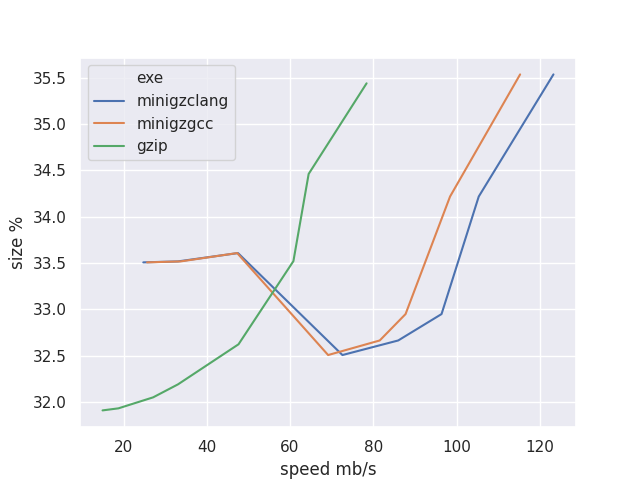
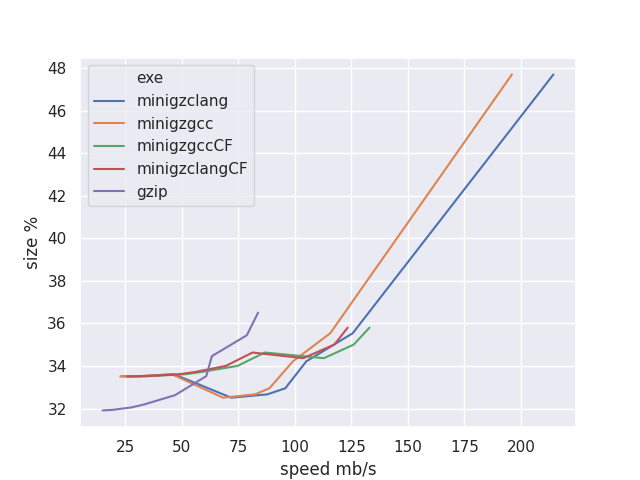
Address comments (https://github.com/neurolabusc/zlib-bench-python/commit/7dae730b8a5b2ddbf146ce3840f4bd99af6d2a59)

diff --git a/a_compile.py b/a_compile.py
@@ -55,18 +55,18 @@ def install_silesia_corpus():
     os.chdir(basedir)
 
 
-def compile_minigzip():
+def compile_zlibng():
     """compile variants of gz"""
 
     methods = ['gcc', 'clang']
     ccompiler = ['gcc', 'clang']
     cppcompiler = ['g++', 'clang++']
-    if platform.system() == 'Windows':
-        methods = ['Cloudflare', 'ng']
+    if platform.system() == 'Darwin':
+        print('Warning MacOS alias gcc->clang!')
     basedir = os.getcwd()
     exedir = os.path.join(basedir, 'exe')
-    if os.path.isdir(exedir):
-        rmtree(exedir)
+    #if os.path.isdir(exedir):
+    #    rmtree(exedir)
     try:
         os.mkdir(exedir)
     except OSError:
@@ -89,10 +89,7 @@ def compile_minigzip():
             rmtree(gzdir)
         os.mkdir(gzdir)
         os.chdir(gzdir)
-        #cmd = 'cmake -DZLIB_IMPLEMENTATION=' + method + ' ..'
-        #cmd = 'cmake --zlib-compat  ..'
-        
-        cmd = 'cmake -D CMAKE_C_COMPILER='+ccompiler[m]+' -D CMAKE_CXX_COMPILER='+cppcompiler[m]+' --zlib-compat  ..'
+        cmd = 'cmake -DCMAKE_C_COMPILER='+ccompiler[m]+' -DCMAKE_CXX_COMPILER='+cppcompiler[m]+' -DZLIB_COMPAT=ON  ..'
         subprocess.call(cmd, shell=True)
         #cmd = 'make'
         #if platform.system() == 'Windows':
@@ -103,10 +100,59 @@ def compile_minigzip():
         shutil.move(gzexe, outnm)
         st = os.stat(outnm)
         os.chmod(outnm, st.st_mode | stat.S_IEXEC)
+        os.chdir(basedir)
+
+
+def compile_cloudflare():
+    """compile variants of gz"""
+
+    methods = ['gccCF', 'clangCF']
+    ccompiler = ['gcc', 'clang']
+    cppcompiler = ['g++', 'clang++']
+    if platform.system() == 'Darwin':
+        print('Warning MacOS alias gcc->clang!')
+    basedir = os.getcwd()
+    exedir = os.path.join(basedir, 'exe')
+    #if os.path.isdir(exedir):
+    #    rmtree(exedir)
+    try:
+        os.mkdir(exedir)
+    except OSError:
+        print ("Creation of the directory {} failed" .format(exedir) )
+    gzdir = os.path.join(basedir, 'gz')
+    if os.path.isdir(gzdir):
+        rmtree(gzdir)
+    cmd = 'git clone https://github.com/rordenlab/zlib.git '+gzdir
+    subprocess.call(cmd, shell=True)
+    gzdir = os.path.join(gzdir,'build')
+    gzexe = os.path.join(gzdir, 'minigzip')
+    ext = ''
+    if platform.system() == 'Windows':
+        ext = '.exe'
+    gzexe = gzexe + ext
+    for m in range(len(methods)):
+        method = methods[m]
+        os.chdir(basedir)
+        if os.path.isdir(gzdir):
+            rmtree(gzdir)
+        os.mkdir(gzdir)
+        os.chdir(gzdir)
+        cmd = 'cmake -DCMAKE_C_COMPILER='+ccompiler[m]+' -DCMAKE_CXX_COMPILER='+cppcompiler[m]+' -DBUILD_EXAMPLES=ON -DUSE_STATIC_RUNTIME=ON  ..'
+        subprocess.call(cmd, shell=True)
+        cmd = 'cmake --build .'
+        subprocess.call(cmd, shell=True)
+        outnm = os.path.join(exedir, 'minigz' + method + ext)
+        print (gzexe + '->' + outnm)
+        shutil.move(gzexe, outnm)
+        st = os.stat(outnm)
+        os.chmod(outnm, st.st_mode | stat.S_IEXEC)
+        os.chdir(basedir)
 
 
 if __name__ == '__main__':
     """compile variants of zlib and sample compression corpus"""
 
     install_silesia_corpus()
-    compile_minigzip()
+    compile_cloudflare()
+    compile_zlibng()
+

diff --git a/b_speed_test.py b/b_speed_test.py
@@ -83,7 +83,7 @@ def test_cmp(
     meth = ntpath.basename(exe)
     if not silent:
         print('CompressMethod\tLevel\tMin\tMean\tMax\tmb/s\t%')
-    for lvl in range(2, max_level + 1):
+    for lvl in range(1, max_level + 1):
         size = 0
         nsize = 0
         seconds = np.zeros(repeats);
@@ -277,7 +277,7 @@ def compress_all_levels(exe, indir, tmpdir, exts):
     if not os.path.exists(method) and not shutil.which(method):
         print('Skipping test: Unable to find "' + method + '"')
         return 0
-    for lvl in range(2, max_level+1):
+    for lvl in range(1, max_level+1):
         for f in os.listdir(indir):
             if not os.path.isfile(os.path.join(indir, f)):
                 continue
@@ -357,7 +357,7 @@ if __name__ == '__main__':
     if not os.path.isdir(indir):
         print('Run a_compile.py first: Unable to find "' + indir +'"')
         sys.exit()
-    repeats = 2
+    repeats = 5
     if len(sys.argv) > 2:
         repeats = int(sys.argv[2])
     results_file = ntpath.basename(indir)+'_speed_size.pkl'

diff --git a/README.MD b/README.MD
@@ -6,7 +6,24 @@ These simple Python scripts benchmark different zlib compression libraries. The 
 
 ![alt tag](https://github.com/neurolabusc/zlib-bench-python/blob/master/silesia_speed_size.png)
 
+To run this script, you would run the following commands:
+
+```
+a_compile.py
+b_speed_test.py
+```
+
+
 The script `a_compile.py` downloads the [silesia corpus](http://sun.aei.polsl.pl/~sdeor/index.php?page=silesia) and compiles the versions of zlib to be tested. By default it will compile zlib-ng using the gcc and clang compilers. This assumes you have both compilers installed and they are named `gcc` and `clang`. You may need to edit this for your system. for example on MacOS `gcc` is actually an alias for `clang`, so you will have to provide an explicit name for gcc (e.g. `gcc-9` and `g++-9` for the c and c++ compilers).
+
+The script `a_compile.py` optionally allows you to test the [CloudFlare variant of zlib](https://github.com/cloudflare/zlib). To enable this you must use a text editor to uncomment the line
+```
+    #compile_cloudflare()
+```
+To read
+```
+    compile_cloudflare()
+```
 
 The script `b_speed_test.py` allows us to compare speed of compression and decompression. 
 
@@ -41,6 +58,8 @@ gzip	26661	26830	26999	190.79
 minigzgcc	18845	19070	19294	269.91
 minigzclang	18274	18689	19105	278.35
 ```
+
+Be warned that this script will use a huge amount of disk space. The Silesia coprpus is large, and for the decomrpression test each compression tool contributes a compressed version of this corpus at each compression level (1..9).
 
 ## Alternatives
 
